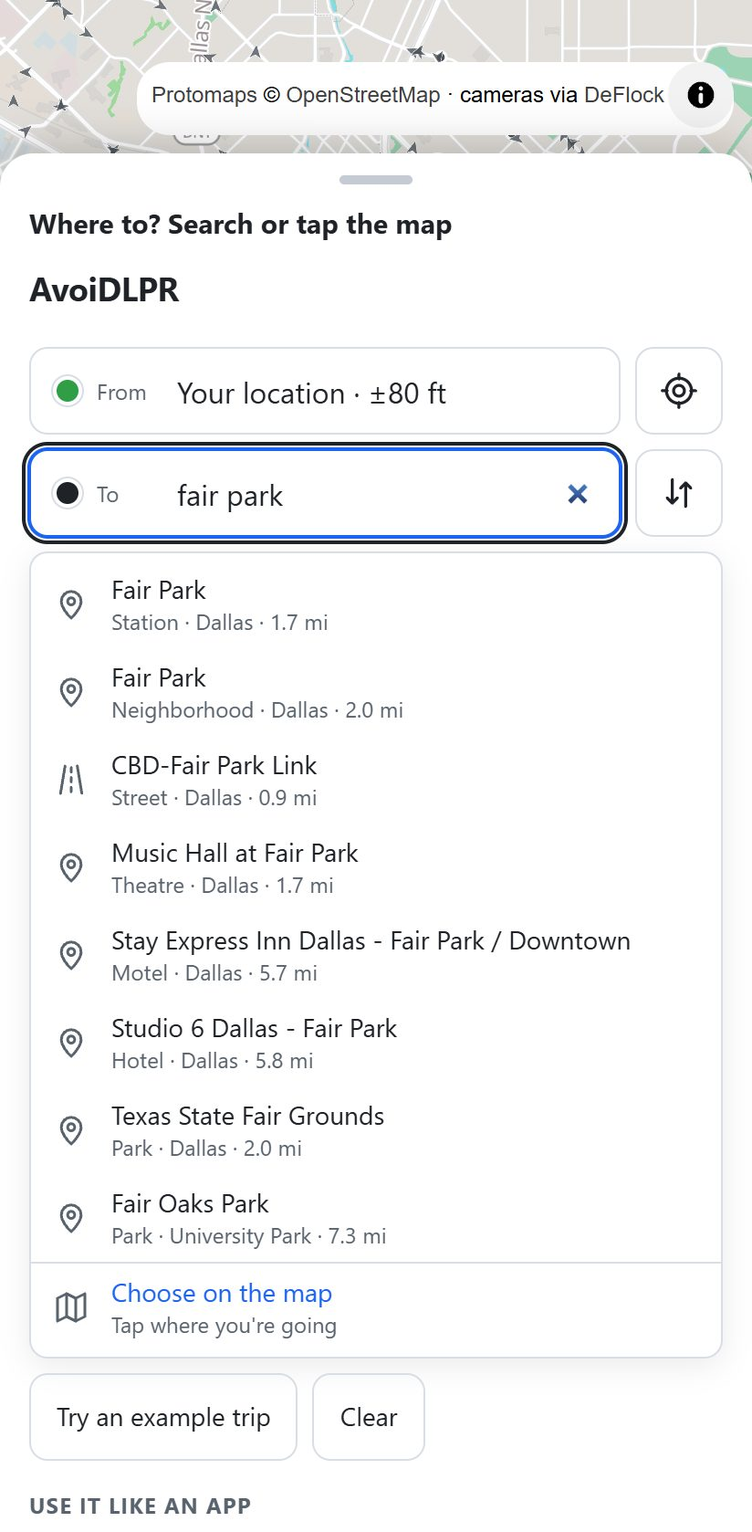
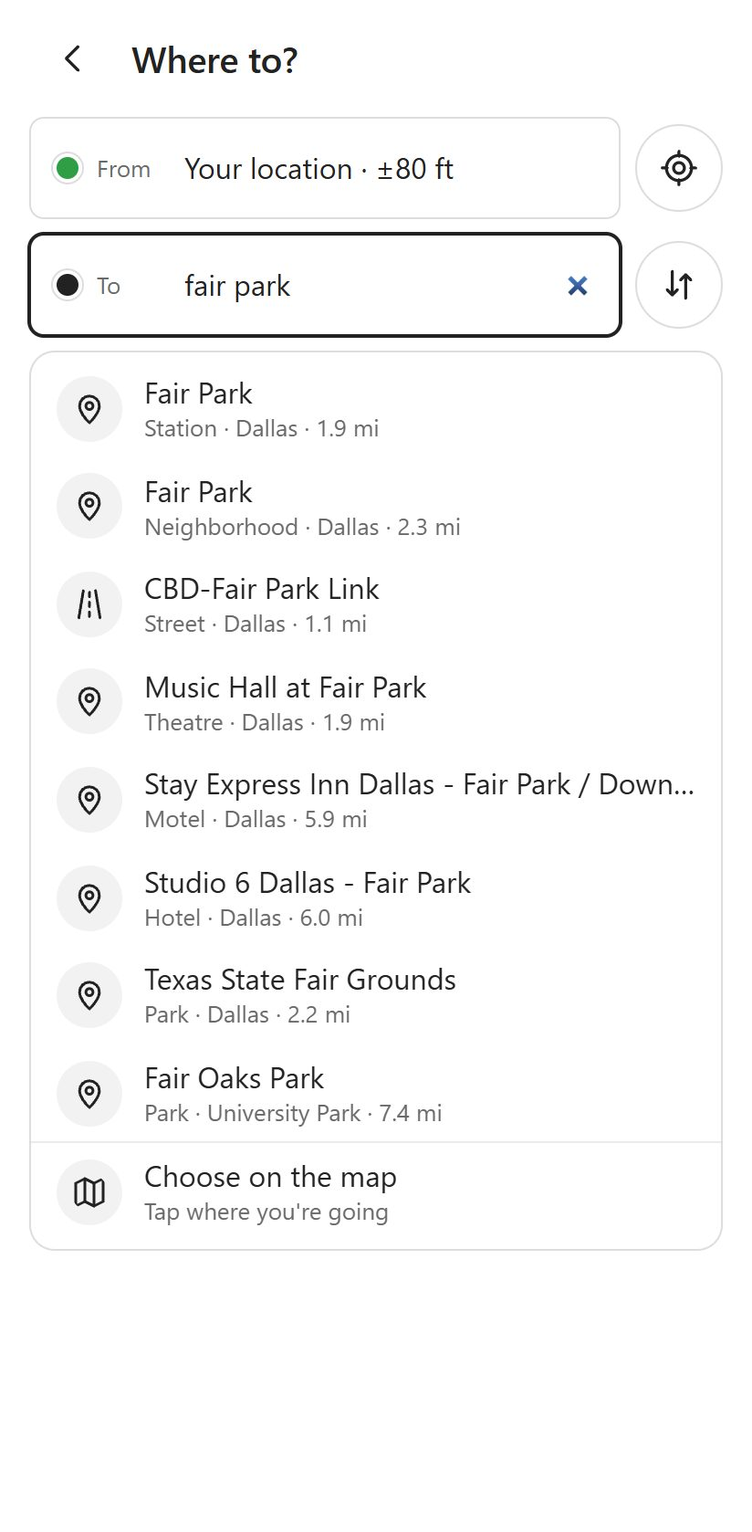
Docs: the design, and READMEs and screenshots for the redesign
docs/DESIGN.md is new: the principles (map first, one primary action, red only for cameras), the
tokens in light and dark with what each is for, the map's colours, the layouts, the components,
the rides and how dark mode works.

The READMEs describe the new layout, the menu, dark mode and your ride, and their screenshots are
retaken: a fourth phone shot for the "Where to?" home screen, and the drive preview in dark mode.

diff --git a/apps/web/README.md b/apps/web/README.md
@@ -1,33 +1,40 @@
 # @flockwatch/web
 
 The AvoiDLPR app: camera-aware routing and navigation in the browser, for phones and desktops.
+It looks and works like other map apps; [docs/DESIGN.md](../../docs/DESIGN.md) has the design.
 
 - **Pick your area.** The first visit asks where you drive: a searchable list of the metro areas
   in the manifest, grouped by state, or **Use my location**. The choice is remembered on the
-  device; the area name at the top of the panel switches.
-- **Set a trip.** The From and To fields are search boxes: type an address, a street, a place
-  (a store, a stadium, the airport) or coordinates, and pick from the results. Or tap the map,
-  which sets the field used last ("Choose on the map" from the results lowers the sheet for it),
-  or press the target button (on the map and in the panel) to start from your current location.
-  A tapped stop is named after the nearest address or place. Drag a pin to adjust it, swap the
-  ends, or load an example.
-- **Choose a route.** You get up to four options from fastest to fewest cameras, each with its
-  extra time, distance and camera-zone count. "Recommended" is the fewest cameras within 10% more
-  time. Select one from its card, or by tapping its line on the map; a camera it avoids turns
-  green and one it passes turns red.
-- **Read the alerts.** The panel lists every camera zone on the selected route; tap one to fly
-  to it. **Preview drive** plays the trip back with "camera ahead" and "in a camera zone" alerts.
+  device; **Change** in the menu switches it.
+- **Where to?** With nothing planned, the app is the map, a **Where to?** box and quick searches
+  (gas, coffee, groceries, food, and a sample trip). The From and To fields are search boxes:
+  type an address, a street, a place (a store, a stadium, the airport) or coordinates, and pick
+  from the results; the start's list offers **Your location** first. Or tap the map, which sets
+  the field used last ("Choose on the map" from the results lowers the sheet for it), or press
+  the locate button on the map to start from where you are. A tapped stop is named after the
+  nearest address or place. Drag a pin to adjust it, or swap the ends.
+- **Choose a route.** A destination opens the directions: up to four options from fastest to
+  fewest cameras, each with its time, extra time, distance and camera-zone count. "Recommended"
+  is the fewest cameras within 10% more time. Select one from its card, or by tapping its line on
+  the map; a camera it avoids turns green and one it passes turns red.
+- **Read the alerts.** *N camera zones on this route*, under the options, lists them; tap one to
+  fly to it. **Preview** plays the trip back in about 30 seconds with "camera ahead" and "in a
+  camera zone" alerts.
 - **Drive.** **Start** follows the device's GPS along the route: a warning before each camera
   zone (earlier at speed), a banner, chime and vibration in one, a new route when you leave this
   one, and the screen kept awake. Start sits in the sheet's header on a phone, so it's in reach
   at any height.
+- **Make it yours.** The menu (top right) has your ride (a hatchback, pickup, van or scooter
+  that stands for you on the map); Appearance (Auto follows the device, or Light or Dark, the
+  map included); the alert sound and camera-zone model; install help; the map key; and how
+  current the data is.
 
 Nothing leaves the device. The road network, search index, camera feed, basemap tiles, fonts and
 icons all come from this origin or the data host, and routing and search run in Web Workers
 ([`@flockwatch/router`](../../packages/router)): **what you type into search is matched on the
 device and never sent anywhere.** The state kept is the URL hash (pins and the zone model, which
-browsers never send to a server; not the names of searched places) and the area you picked
-(local storage). **Your location is used in memory only: it is never sent anywhere, and never
+browsers never send to a server; not the names of searched places) and, in local storage, the
+area you picked, your ride and the appearance. **Your location is used in memory only: it is never sent anywhere, and never
 written to the URL or to storage**, including while navigating, so a shared link can't reveal
 where you are.
 
@@ -71,14 +78,14 @@ worker keeps the last pack that loaded, and the worker falls back to it, saying 
 fails is evicted from the cache so the next try downloads it again. The app looks for a new
 manifest whenever it comes back on screen (and every half hour while it's on): new cameras apply
 at once; a new pack, search index or basemap waits until no trip is being driven or previewed. A
-new search index swaps in on its own, without reloading the road map. The panel's footer shows how
-current the roads and cameras are.
+new search index swaps in on its own, without reloading the road map. *About the data*, in the
+menu, shows how current the roads and cameras are.
 
 ## Install it like an app, and offline
 
 The site is a progressive web app: from a phone's browser, **Add to Home Screen** (iPhone:
 Share menu; Android: menu > Install app) puts an icon on the home screen, and it then opens
-full-screen with no browser bar. The app also shows install instructions in the panel.
+full-screen with no browser bar. The app also shows install instructions in the menu.
 
 - **Manifest and icons:** `public/manifest.webmanifest`, `public/icon.svg`, and the PNGs in
   `public/icons/` (192, 512, a maskable one for Android, and an Apple touch icon). Regenerate the
@@ -136,20 +143,29 @@ is the one you want. `-- --port 5000` changes the port and `-- --no-build` skips
 | `src/search-worker.ts` | Downloads the area's search index once the road map is in, and answers searches and "what's here" (`PlaceSearch` in the router package) |
 | `src/search.ts` | The From and To fields as search boxes: the results list, keyboard (arrows, Enter, Escape), "Choose on the map", coordinates without an index |
 | `src/fetch-data.ts` | Downloading a road pack or search index: progress, the manifest's SHA-256, un-gzipping |
-| `src/map.ts` | MapLibre with the Protomaps `light` style via the `pmtiles://` protocol; overlays for routes, camera arrows (rotated to where each camera looks), capture zones, the GPS accuracy circle and the car |
+| `src/map.ts` | MapLibre with the Protomaps light or dark style via the `pmtiles://` protocol; overlays for routes (the selected one in the accent colour), camera arrows (rotated to where each camera looks), capture zones and the GPS accuracy circle, coloured per theme |
+| `src/personas.ts` | Your ride: four cartoon vehicles as inline SVG, and the one picked, remembered on the device |
 | `src/data.ts` | Where data lives (`VITE_DATA_BASE`), the `regions.json` manifest, which area to open, and which areas hold a point |
 | `src/chooser.ts` | The "Where do you drive?" dialog: search, grouping by state, pick by location |
-| `src/main.ts` | Boot from the manifest, trip state, route options, markers, URL-hash state, drive playback, live navigation, area switching, install hint, service worker registration |
+| `src/main.ts` | Boot from the manifest, trip state, route options, markers (your ride among them), URL-hash state, drive playback, live navigation, area switching, the menu and theme, install hint, service worker registration |
 | `src/sheet.ts` | The panel as a bottom sheet on phones: drag, fling or press Up/Down on the handle between peek, half and full |
 | `src/location.ts` | One-shot Geolocation with plain-language failures (blocked, unavailable, timed out, insecure page) |
 | `src/drive.ts` | Position and heading along a route, and matching a GPS fix to it, measured in the pack's projection so distances match the router's alerts |
 | `src/format.ts` | Distances in miles and feet in the US (by the browser's locale), else kilometres |
 
-- **Phone layout** (up to 760 px wide): the map fills the screen and the panel is a draggable
-  bottom sheet. Controls are at least 48 px, form text is 16 px (so iOS doesn't zoom on focus),
-  and safe-area insets are respected. The map's own padding tracks the sheet, so framing a
-  route, centring on you, or flying to a camera always targets the part of the map you can see.
-  The required map attribution floats above the sheet rather than under it.
+- **Layout** follows the state on the root element: `data-mode` (`idle` or `trip`),
+  `data-searching`, `data-following` (`drive` or `nav`) and `data-theme`. On a phone (up to
+  760 px wide) the map fills the screen; with nothing planned there's just the pill and quick
+  searches, and a trip opens the panel as a draggable bottom sheet. Wider, the panel is a 400 px
+  card at the top left. Controls are at least 48 px, form text is 16 px (so iOS doesn't zoom on
+  focus), and safe-area insets are respected. The map's own padding tracks the sheet, the card
+  and the pill, so framing a route, centring on you, or flying to a camera always targets the
+  part of the map you can see. The required map attribution sits beside the locate button
+  (above the sheet in a trip), never under either.
+- **Dark mode**: the stylesheet's tokens are redefined for dark under `prefers-color-scheme`
+  (Auto) and under `data-theme="dark"` (chosen). The map swaps to Protomaps' dark flavour and its
+  dark icons (`sprite_dark` in the manifest, falling back to the light ones) with `setStyle`,
+  then adds the app's overlays back; the `theme-color` tags follow for the browser's bars.
 - **Route options** come from the router's time-vs-cameras frontier (a sweep of camera prices,
   plus a bisection inside the 10% window for the recommendation), capped at +50% time.
 - **Taps on the map**: a camera opens its details; another route's line selects that route (the
@@ -166,6 +182,10 @@ is the one you want. `-- --port 5000` changes the port and `-- --no-build` skips
   sheet back.
 - **Areas overlap at their edges.** Where a point is in two (Irving is in Dallas and Fort
   Worth), the app picks the one it sits deepest inside.
+- **A preview** plays the trip in about 30 seconds (4 to 64 times real time), centred on your
+  ride every frame and zoomed out as needed (as far as zoom 13) so the map scrolls under it no
+  faster than 200 px a second. Live navigation instead recentres in steps, when you
+  near the edge of the view.
 - **Zone alerts during playback** use the zone intervals the router reports (`atM`–`untilM`).
   Each frame is tested against the whole stretch driven since the previous one, so slow frames
   or high playback speeds can't step over a zone. The worker's live position-and-heading check
@@ -194,14 +214,20 @@ being blocked. It serves its own three-area manifest, so it only needs Dallas st
 the camera-ahead and in-zone alerts, going off route and rerouting, arriving, and that no
 position reaches the URL.
 
+[`e2e/appearance.cjs`](e2e/appearance.cjs) (14 checks) covers the menu and the look: Auto
+following the device into dark mode with the map switching too, Light and Dark overriding it,
+the overlays coming back after a style switch, picking a ride and seeing it on the map, both
+remembered, the quick searches, and "Your location" for the start.
+
 [`e2e/updates.cjs`](e2e/updates.cjs) (14 checks) covers taking updates: a damaged new pack
 falling back to the last good one, a new pack found on return swapped in between trips but not
 mid-drive, new cameras arriving, and a new search index swapped in on its own.
 
 [`e2e/phone-and-location.cjs`](e2e/phone-and-location.cjs) drives a Pixel 7 emulation (touch
-input, a fake GPS fix) and a desktop window through 39 checks: the bottom sheet (drag, keyboard,
-tap), route options, tapping routes, framing, current location (granted, blocked, outside the
-area), the drive preview, and tap-target sizes. It also fails on any console error or any
+input, a fake GPS fix) and a desktop window through 42 checks: the "Where to?" home screen, the
+bottom sheet (drag, keyboard, tap), route options, tapping routes, framing, current location
+(granted, blocked, outside the area), the drive preview (your ride staying in view), the map
+attribution clear of the locate button, the desktop card, and tap-target sizes. It also fails on any console error or any
 request that leaves localhost. In dev builds the page exposes `window.__fw` (map, state, sheet,
 search) for it; production builds don't.
 
@@ -234,7 +260,6 @@ node ~/.claude/skills/playwright-skill/run.js e2e/production.cjs
   the app offers the street. No typo tolerance yet, and only the open area is searched.
 - **Fixed playback speed.** The drive plays back at the route's average speed, not per-road
   speeds.
-- **Light theme only.** No dark basemap yet.
 - **Offline tiles.** Offline covers the app, roads and cameras, not map tiles.
 - **One area at a time.** A trip has to fit in one area (or the overlap of two); there's no
   routing from one metro to another.

diff --git a/docs/DESIGN.md b/docs/DESIGN.md
@@ -1,0 +1,118 @@
+# AvoiDLPR's design
+
+How the app looks and why, for anyone changing its screens. The tokens live at the top of
+[`apps/web/src/style.css`](../apps/web/src/style.css), the map's colours in
+[`apps/web/src/map.ts`](../apps/web/src/map.ts) (`PALETTES`), and the rides in
+[`apps/web/src/personas.ts`](../apps/web/src/personas.ts).
+
+## Principles
+
+- **Map first, like any map app.** With nothing planned, the screen is the map, a **Where to?**
+  box and a row of quick searches. Everything else waits until it's useful: the directions panel
+  opens with a destination, and settings, the map key and the data's dates live in the menu.
+- **One thing to do next.** Each view has one primary (filled) button: **Start** in a trip. Other
+  actions are outlined (**Preview**) or plain text (**Clear**).
+- **Red means cameras.** Red marks camera zones, the cameras a route passes and the alert banner,
+  and nothing else. The interactive accent is blue, and "no cameras" is green.
+- **Say it plainly.** "26 min · Fastest · 6 camera zones", not a table. Time comes first, as in
+  every routing app, then what it costs in cameras.
+
+## Where the look comes from
+
+The tokens started from the Airbnb entry in
+[awesome-design-md](https://github.com/VoltAgent/awesome-design-md) (MIT), a write-up of that
+site's public CSS: white canvas, near-black ink (#222222), soft radii, pill-shaped search, one
+light shadow tier, modest type weights. Two things changed:
+
+- **Blue instead of coral.** Its brand accent (#ff385c) would read as "camera" here, so the accent
+  is #2563eb (#6b9bff in the dark).
+- **The system font.** Its typeface isn't free to use; the stack is `-apple-system`, Segoe UI,
+  Roboto and friends, so text looks native on every phone.
+
+The dark palette is our own.
+
+## Tokens
+
+| Token | Light | Dark | Used for |
+|---|---|---|---|
+| `--canvas` | #ffffff | #1f2023 | The panel, menu, buttons and pill |
+| `--surface-soft` / `--surface-strong` | #f7f7f7 / #f2f2f2 | #26272b / #2e2f34 | Result icons, hovers, the segmented control |
+| `--ink` | #222222 | #f2f2f2 | Headings, times, field text |
+| `--body` / `--muted` | #3f3f3f / #6a6a6a | #d4d4d6 / #a1a1a6 | Body text / labels, distances, notes |
+| `--hairline` | #dddddd | #3a3b40 | Card and field borders, dividers |
+| `--accent` | #2563eb | #6b9bff | Start, links, focus, the selected route |
+| `--on-accent` | #ffffff | #0b1220 | Text on the accent |
+| `--zone` / `--zone-soft` | #e03131 / #fff0f0 | #ff6b6b / #3a1f22 | Camera-zone counts (text on a soft badge) |
+| `--alert` | #e03131 | #c92a2a | The zone banner and Stop, both with white text |
+| `--ahead` | #f59f00 | #fab005 | The "camera ahead" banner (dark text) |
+| `--ok` / `--ok-soft` | #2f9e44 / #ebfbee | #51cf66 / #1d3324 | "No camera zones" |
+
+Text on a coloured surface keeps at least 4.5:1 contrast. That's why `--alert` exists: the dark
+map needs a lighter red (#ff6b6b) to show, but white text on it is only 2.8:1, so banners and
+Stop take a deeper red (5.5:1).
+
+| | |
+|---|---|
+| Radii | 8 px (small), 14 px (fields, cards, the desktop panel), 20 px (sheets, the menu), full (pill, chips, round buttons) |
+| Shadow | One tier, for things floating over the map: `rgb(0 0 0/.02) 0 0 0 1px, rgb(0 0 0/.04) 0 2px 6px, rgb(0 0 0/.1) 0 4px 8px` (darker in the dark) |
+| Type | 22 px dialog titles, 20 px route times and the Directions heading, 16 px fields, buttons and body (16 px also stops iOS zooming on focus), 14 px text buttons, badges and notes, 13 px result details, 11 px the *Recommended* badge; weights mostly 500 and 600 |
+| Touch | Controls at least 48 px (`--tap`); the map attribution's button 36 px |
+
+### The map
+
+| | Light | Dark |
+|---|---|---|
+| Basemap | Protomaps `light` flavour | Protomaps `dark` flavour, with its own icons (`sprite_dark` in the manifest) |
+| Selected route / other routes | #2563eb / #8d96a0 | #6b9bff / #6c7480 |
+| Camera / on the route / avoided | #495057 / #e03131 / #2f9e44 | #adb5bd / #ff6b6b / #51cf66 |
+| Camera zone fill | #e03131 | #ff6b6b |
+
+## Layout
+
+The root element carries the state that drives the layout: `data-mode` (`idle` with nothing
+planned, `trip` with a destination), `data-searching` (a search field has focus),
+`data-following` (`drive` for a preview, `nav` while navigating) and `data-theme`.
+
+| | Phone (up to 760 px) | Wider |
+|---|---|---|
+| Nothing planned | The **Where to?** pill and quick searches at the top, the menu button beside them, locate at the bottom right | The same, at the top left |
+| Searching | Full-screen search: back button, the From and To fields, results sized to what the keyboard leaves | Results open under the fields, in the card |
+| A trip | A bottom sheet (peek, half, full) with Start in its header, so it's in reach at any height | A 400 px card at the top left, over the map |
+| Previewing or driving | The sheet drops to its peek, the menu button goes, a banner at the top, the map follows your ride | The banner at the top, the map follows |
+
+The map's own padding tracks whatever covers it (the sheet, the card, the pill), so fitting a
+route or following your ride always targets the part of the map you can see.
+
+## Components
+
+- **Where to?** The To field itself, styled as a pill with a search icon. Tapping it opens the
+  search, with the From field above it.
+- **Quick searches.** Chips under the pill: *Try a sample trip*, Gas, Coffee, Groceries, Food. A
+  chip opens the search with its words typed in.
+- **Route option.** A card: the time large, its label beside it (Fastest, Balanced, Fewer cameras,
+  Fewest cameras) with a *Recommended* badge, then the extra time and distance, and the
+  camera-zone count on a soft red badge (green for none). The selected card gets a 2 px ink border.
+- **Banner.** A pill at the top of the map while previewing or driving: red with white text in a
+  camera zone, amber with dark text for a camera ahead, the canvas colour otherwise.
+- **Menu.** A dialog from the round button at the top right, a bottom sheet on phones: your area,
+  your ride, Appearance (Auto, Light, Dark), camera alerts (sound, which zone model), install
+  help, the map key and where the data comes from.
+
+## Your ride
+
+You're drawn on the map as a small cartoon vehicle: Hatchback (blue), Pickup (yellow), Van
+(purple) or Scooter (mint, with an orange helmet). Each is a top-down SVG on a 48-unit grid, facing
+north, with a #1f2328 outline (1.9 units), dark wheels, a soft shadow and two headlight eyes, so it
+stays readable at 44 px on a busy street map. It turns with your heading while you drive, pulses
+softly while it's your live location, and gets a faint light outline in the dark. The ride you
+pick in the menu is remembered on the device. To add one, add a sprite to `SPRITES` and an entry
+to `RIDES`; keep the outline, the eyes and a body colour that isn't red.
+
+## Dark mode
+
+Appearance in the menu is **Auto** (follow the device), **Light** or **Dark**. Auto sets nothing;
+Light and Dark set `data-theme` on the root, and the choice is kept in local storage. The dark
+tokens are written twice in the stylesheet, under `prefers-color-scheme: dark` (unless the theme
+is Light) and under `data-theme="dark"`. The map switches style to match (`map.setStyle`, after
+which the app's overlays are added back), and the `theme-color` tags follow, so the browser's own
+bars match the app.

diff --git a/README.md b/README.md
@@ -9,7 +9,7 @@ phone's browser, installs to your home screen like an app, and never sends your 
 destination or your searches anywhere.
 
 <p align="center">
-  <img src="docs/images/desktop.jpg" width="900" alt="AvoiDLPR on a laptop. A trip across Dallas has four route options, from the fastest (26 minutes, through 6 camera zones) to the one with the fewest cameras (28 minutes, through none). Each camera is drawn on the map as an arrow showing which way it points.">
+  <img src="docs/images/desktop.jpg" width="900" alt="AvoiDLPR on a laptop. A trip across Dallas has four route options in a card over the map, from the fastest (26 minutes, through 6 camera zones) to the one with the fewest cameras (28 minutes, through none). The recommended one, 27 minutes through 1 zone, is selected and drawn in blue. Each camera is drawn on the map as an arrow showing which way it points.">
 </p>
 
 > **Status:** built for 135 US metro areas, from New York to Los Angeles and Charlotte to
@@ -34,11 +34,13 @@ is a good place to learn more.
 ## How it works
 
 <p align="center">
-  <img src="docs/images/phone-search.jpg" width="250" alt="Searching on a phone: the start is 'Your location', and typing 'fair park' as the destination lists Fair Park's station and neighborhood, the Music Hall at Fair Park and other matches, each with what it is, its town and how far away it is.">
+  <img src="docs/images/phone-home.jpg" width="200" alt="The app on a phone: a map of downtown Dallas with a 'Where to?' box and quick searches (a sample trip, gas, coffee) at the top, and a little blue car marking where you are.">
   &nbsp;
-  <img src="docs/images/phone-routes.jpg" width="250" alt="On a phone: the trip's route options in a panel under the map, with the fewest-cameras option selected.">
+  <img src="docs/images/phone-search.jpg" width="200" alt="Searching on a phone: the search fills the screen. The start is 'Your location', and typing 'fair park' as the destination lists Fair Park's station and neighborhood, the Music Hall at Fair Park and other matches, each with what it is, its town and how far away it is.">
   &nbsp;
-  <img src="docs/images/phone-drive.jpg" width="250" alt="Previewing a drive on a phone: a red banner reads 'In a camera zone: Flock Safety, reads plates heading N' as the route passes through a camera's shaded view.">
+  <img src="docs/images/phone-routes.jpg" width="200" alt="On a phone: the trip's route options in a sheet under the map, with the fewest-cameras option (28 minutes, no camera zones) selected and a Start button at the top of the sheet.">
+  &nbsp;
+  <img src="docs/images/phone-drive.jpg" width="200" alt="Previewing the drive on a phone in dark mode: the little car drives the route on a dark map, and a red banner reads 'In a camera zone: Flock Safety, reads plates heading N' as it passes a camera.">
 </p>
 
 1. **A map of the cameras.** Volunteers map ALPRs on OpenStreetMap through
@@ -56,13 +58,18 @@ is a good place to learn more.
 4. **Drive.** Tap **Start** and AvoiDLPR follows your phone's GPS along the route: a warning
    before each camera zone, a banner and a chime while you're in one, and a new route if you
    leave this one. Keep the app open with the screen on; phones pause web apps in the
-   background. (**Preview drive** plays the trip back on the map, to see where the zones are.)
+   background. (**Preview** plays the trip back on the map in about 30 seconds, to see where
+   the zones are.)
 
 AvoiDLPR works one metro area at a time: the first time you open it, it asks where you drive (or
 finds your area from your location) and downloads that area's road map and its list of addresses
 and places, a few megabytes. To plan a trip, type where you're going (an address, a street, or a
 place like a store, a stadium or the airport) or tap it on the map, and start from your current
 location or anywhere else.
+
+It works like the map apps you already know: **Where to?**, pick a route, **Start**. It follows
+your phone's light or dark mode (or pick one in the menu), and you're the little car on the map:
+a hatchback, pickup, van or scooter, your choice.
 
 ## Your privacy
 
@@ -72,7 +79,8 @@ location or anywhere else.
 - **So does search.** Most map apps send everything you type to their servers. AvoiDLPR
   downloads your area's addresses and places once and looks them up on your phone, so what you
   search for stays there too.
-- **No account, no ads, no analytics.** The app remembers which area you picked, on your device.
+- **No account, no ads, no analytics.** The app remembers your area, your ride and light or
+  dark, on your device.
 - Like any online map, it downloads map images for the area on screen. Those come from
   AvoiDLPR's own file host (not Google or Apple) and carry no account or identifier.
 - After the first visit, route planning and search work offline too.
@@ -100,7 +108,7 @@ DeFlock's public camera map.
 
 **How current is the map?** Cameras update hourly. Roads are checked every night: an area's road
 map is replaced when its roads changed noticeably, or weekly for small fixes, so your phone isn't
-downloading it again for every one-street edit. The bottom of the panel shows their dates.
+downloading it again for every one-street edit. The menu shows their dates.
 Addresses and places, for search, are rebuilt monthly.
 
 **Why can't it find an address?** Search knows the addresses and places on OpenStreetMap, which

diff --git a/docs/DEVELOPING.md b/docs/DEVELOPING.md
@@ -44,8 +44,8 @@ npm run phone -w @flockwatch/web                      # serve to your phone over
 ```
 
 The browser tests in `apps/web/e2e/` run with Playwright against the dev server and the staged
-release: `phone-and-location.cjs` (layout, route options, GPS start, preview), `areas.cjs` (the
-area chooser and switching), `search.cjs` (places, addresses, streets and coordinates in the From
+release: `phone-and-location.cjs` (layout, route options, GPS start, preview), `appearance.cjs`
+(the menu: dark mode, your ride, quick searches), `areas.cjs` (the area chooser and switching), `search.cjs` (places, addresses, streets and coordinates in the From
 and To fields; it needs Dallas's search index staged), `navigate.cjs` (live navigation, fed GPS
 fixes), `updates.cjs` (a damaged pack falls back to the last good one; updates go in between
 trips; new cameras apply at once) and `production.cjs` (the production build: headers, CSP, the

diff --git a/docs/DEPLOY.md b/docs/DEPLOY.md
@@ -240,7 +240,8 @@ fresh downloads, new basemaps, and a correction for anything the nightly updates
    again) and the app routes on the last good one, saying so. An app left open, or kept in memory
    as an installed app, looks for news whenever it comes back on screen and every half hour:
    new cameras apply at once, and a new pack, search index or basemap waits until no trip is
-   being driven or previewed. The panel's footer says how current the roads and cameras are.
+   being driven or previewed. *About the data*, in the app's menu, says how current the roads and
+   cameras are.
 
 ## Security and privacy posture
 
